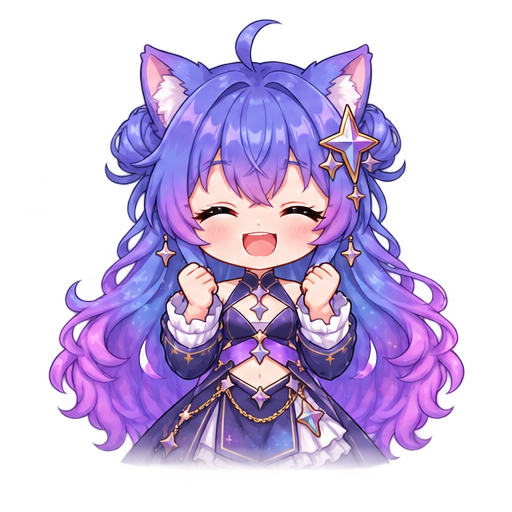
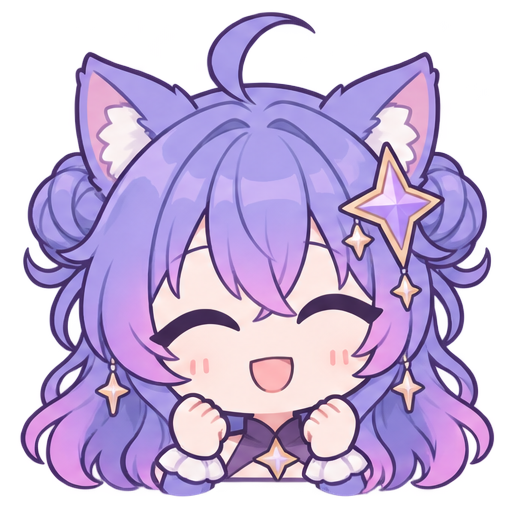
Refine Gemini bust into compact head-and-shoulders mascot

diff --git a/docs/bust-v011-revision.md b/docs/bust-v011-revision.md
@@ -1,0 +1,23 @@
+# 半身近景修订 v0.1.1
+
+2026-11-24。按用户新参考，将原露腰半身改为“大头＋肩胸以上”的紧凑桌面挂件构图；只借鉴构图/画风，不复制参考角色的龙角、白发或紫瞳。
+
+## 设计与来源
+
+- 新参考：assets/reference/bust-composition-reference.png，SHA256 E1F4C6E22B2D70F94FF5CB240A826066EF87D46C23F407588AFD0FA860C08B2E。
+- 生成方式：内置ImageGen，以新参考为构图与线条参考、原Gemini三视图为身份参考；输出新1536×1024透明图集。
+- 提示词规格摘要：六个512px方格，正面大头肩胸近景、头部占主体高度约80%、只留底部少量衣领/肩部、不露腰腹或裙子、缩短垂发至肩部裁切；扁平柔和紫色、深紫线稿、简化赛璐璐阴影、半睁眼待机；保留猫耳、呆毛、双侧发髻、蓝紫粉发色、左画面红瞳/右画面金瞳、右侧四角星饰；六格依次待机/闭眼/小手招手/开心小拳头/指尖思考/困倦。透明背景、无文字网格背景阴影。禁止复制龙角、白发、精灵耳。
+- 旧半身图集SHA256 F32FBB50CC48136CAA91DEA4B2B63750EF25576F3954308C880F8BCC9E6983EC，完整旧版本仍在提交aab3125中。
+- 新半身图集SHA256 EA453EB7910D63809B7320041460D7C3B0A9E534B9456FF81A9D4E3B671CD97E。
+
+## 构建与验证
+
+1. node scripts/build-character.mjs --view=bust：退出0，只导出半身6PNG/6GIF；每GIF40帧、4秒、循环。
+2. npm test：15/15通过，退出0；见character-test-output.txt。透明度测试改为比例阈值以容纳占画面更大的头部，未取消透明验证。新图集alpha=0像素469674，主体alpha>=240像素1023583。
+3. 全身图集及6PNG/6GIF共13文件，构建前后逐一SHA256对比：changed=0。
+4. 浏览器重新加载后切换半身，实查近景轮廓与开心表情、动作路径、播放/暂停。截图：bust-v011-verification.jpg。
+5. 上游安装器、Codex安装、全身形象及Antigravity接口均未改动。
+
+## 恢复
+
+用git revert本次修订提交即可恢复上一版，或从aab3125检出旧半身资产。请勿为恢复图像执行reset --hard，以免丢失后续工作。

diff --git a/README.md b/README.md
@@ -2,7 +2,7 @@
 
 基于 [T7moris/GPT-Niang](https://github.com/T7moris/GPT-Niang) 的非官方社区 Fork。
 
-**当前交付：Gemini 娘视觉与动画原型 v0.1.0。** 依据用户提供的三视图，制作透明半身/全身素材、六种姿态、循环 GIF 与动作选择。
+**当前交付：Gemini 娘视觉与动画原型 v0.1.1。** 依据用户提供的三视图，制作透明半身/全身素材、六种姿态、循环 GIF 与动作选择。半身现为大头肩胸近景、简化线条风格，详见[本轮修订](docs/bust-v011-revision.md)。
 
 > 尚未完成 Antigravity 运行集成。原有 `安装GPT娘.cmd` 等脚本仍是上游 Codex 安装器，不是 Gemini 娘安装器。本轮不修改本机已安装的 GPT 娘，也不读取账号或额度。
 

diff --git a/docs/asset-provenance.md b/docs/asset-provenance.md
@@ -26,3 +26,6 @@ Image1 identity reference, Image2 full-body atlas as art-style reference. HALF B
 build-character.mjs按512px网格分帧，通过可见alpha边界水平对齐，使用motionAt的变换合成40帧GIF。只做导出、对齐、缩放与动画编码，不以程序替代形象绘制。PNG保留alpha；GIF为256色、单比特透明。
 
 动图中的呼吸/摇摆为整体变换，非手臂/尾巴独立骨骼运动。
+
+## 半身 v0.1.1 更新
+原半身生成规格为历史记录；当前采用大头肩胸近景版。新参考、提示词规格、原始SHA256及验证见 [半身修订记录](bust-v011-revision.md)。
